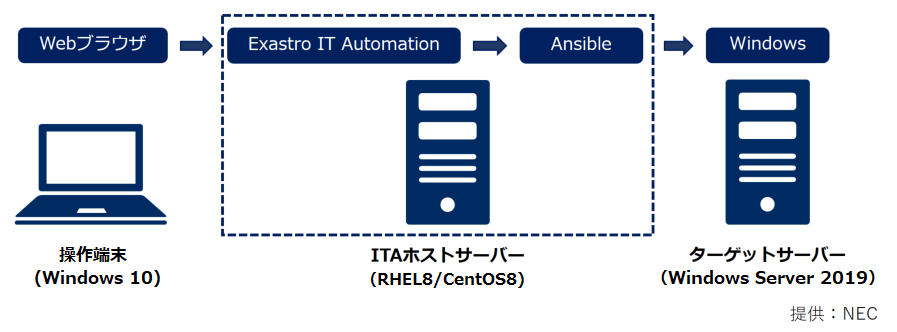
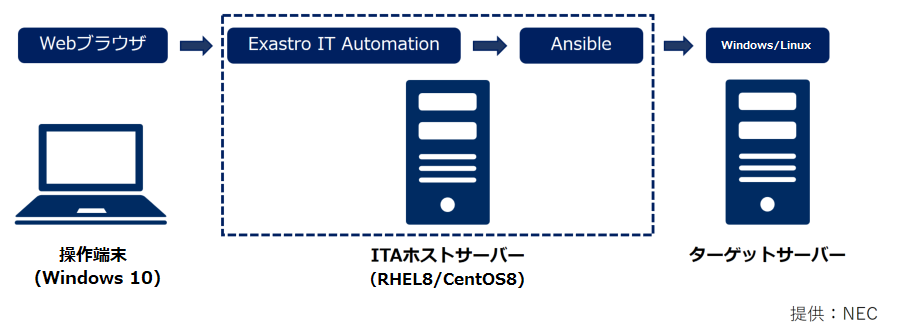
Publish Ansible Role Template for ITA1.9.1

Changed region(s): [[0.7179, 0.8133, 0.9989, 0.8735], [0.7804, 0.0904, 0.9052, 0.1506]]

diff --git a/ansible_role_templates/README.md b/ansible_role_templates/README.md
@@ -6,24 +6,24 @@
 Ansible Role TemplateはExastro IT AutomationにAnsible Role Packageの組込みやRole実行に必要なメニュー／ジョブ等の構築などを行った上でエクスポートしたイメージファイルです  
 公開パッケージ(kym)をダウンロードし、Exastro IT Automationへのインポートと初期設定を行うことでロールの実行を行えます  
 
+
 ## Ansible Role Template
 
-**現時点では限定的に機能を実装したTrial Versionのみの配布となります**  
 **制限事項については「How to use」欄の「制限事項」を参照ください**  
 
 | 対象製品 | Version    | ITA Version | パッケージ(kym)                                              | 機能概要                                                                                              | How to use                                                     |  
 | -------- | ---------- | ----------- | ------------------------------------------------------------ | ----------------------------------------------------------------------------------------------------- | -------------------------------------------------------------- |  
-| OS       | WS2019     | Ver. 1.9.0  | [OS-Windows2019](https://github.com/exastro-playbook-collection/OS-Windows2019/releases/download/v21.04/ansible-template-os-windows2019-ce-trial2-exastro-1.9.0.kym) | OSの環境構築、設定変更、およびOS設定値収集、<br>再利用可能なパラメータファイルの生成を行う | [Readme](https://github.com/exastro-playbook-collection/OS-Windows2019/blob/master/README.md)<br>[注意事項](attention/OS-Windows2019_1.9.0_Trial2.ja.md)<br>[制限事項](limitation/OS-Windows2019_1.9.0_Trial2.ja.md) |  
-| OS       | RHEL8      | Ver. 1.9.0  | [OS-RHEL8](https://github.com/exastro-playbook-collection/OS-RHEL8/releases/download/v21.04/ansible-template-os-rhel8-ce-trial2-exastro-1.9.0.kym)                   | OSの環境構築、設定変更、およびOS設定値収集、<br>再利用可能なパラメータファイルの生成を行う | [Readme](https://github.com/exastro-playbook-collection/OS-RHEL8/blob/master/README.md)<br>[注意事項](attention/OS-RHEL8_1.9.0_Trial2.ja.md)<br>[制限事項](limitation/OS-RHEL8_1.9.0_Trial2.ja.md) |  
+| OS       | RHEL8      | Ver. 1.9.1  | [OS-RHEL8](https://github.com/exastro-playbook-collection/OS-RHEL8/releases/download/v21.04/ansible-role-template-os-rhel8-ce-exastro-1.9.1.kym)                     | OSの環境構築、設定変更、およびOS設定値収集、<br>再利用可能なパラメータファイルの生成を行う | [Role Readme](https://github.com/exastro-playbook-collection/OS-RHEL8/blob/master/README.md)<br>[注意事項](attention/ansible-role-template-os-rhel8-ce-exastro-1.9.1.ja.md)<br>[制限事項](limitation/ansible-role-template-os-rhel8-ce-exastro-1.9.1.ja.md) |  
+
 
 ## Support
 
-対象ホストの諸元等については「Ansible Role Template」一覧の「How to use」／「Readme」を参照ください  
+Ansible Role 対象ホストの諸元等については「Ansible Role Template」一覧の「How to use」／「Role Readme」を参照ください  
 
 
 ## Usage
 
-ここではITAにWS2019の環境構築用Ansible Role Template Trial VersionをインポートしてRoleを実行する場合の例を示します  
+ここではITAにRHEL8の環境構築用Ansible Role TemplateをインポートしてRoleを実行する場合の例を示します  
 
 
 ### システム構成
@@ -34,11 +34,11 @@ Ansible Role TemplateはExastro IT AutomationにAnsible Role Packageの組込み
 
 ### ITAサーバーの環境構築を行う
 
-本手順はITAで設定収集を行う場合に一度だけ実行する必要があります  
+本手順はITAサーバで一度だけ実行する必要があります  
 以降の手順は特に明記の無い限りITAホストサーバ上で実行します  
 
 1. ITAホストサーバにITAのインストールを行います  
-   * インストール手順は[「Exastro IT Automation を導入しよう」](https://exastro-suite.github.io/it-automation-docs/install_ja.html)を参照ください  
+   * インストール手順については[「Exastro IT Automation を導入しよう」](https://exastro-suite.github.io/it-automation-docs/install_ja.html)を参照ください  
    * インストールするITAのバージョンは、「Ansible Role Template」一覧の「ITA Version」を参照ください  
 
 2. ITAホストサーバにsudo権限を付与したユーザでログインします  
@@ -97,15 +97,19 @@ Ansible Role TemplateはExastro IT AutomationにAnsible Role Packageの組込み
     ```
 
 
-### ITAホストサーバーの初期設定を行う
+### Ansible Role Templateを利用する
+
+以降の手順は特に明記の無い限り操作端末上で実行します  
+
+
+【ITAホストサーバーの初期設定を行う】  
 
 以降の手順は特に明記の無い限り操作端末上で実行します  
 
 1. 「Ansible Role Template」一覧から対象製品のパッケージ(kym)をダウンロードし、操作端末の適当なフォルダに格納します  
     - 「How to use」欄に「制限事項」「注意事項」のリンクがある場合は内容を確認し、必要に応じて対応を行ってください  
 
-2. ITAに"administrator"でログインし、パスワードを変更します  
-    - この後の手順で変更したパスワードとは異なるパスワードへの変更を求められるため、ここでは使用予定のパスワードとは別の適当な値に変更してください  
+2. ブラウザでITAホストサーバーに接続し、"administrator"（システム管理者）でログインします  
 
 3. 「メインメニュー」＞「エクスポート／インポート」＞「メニューインポート」メニューを開きます  
 「ファイルを選択」からダウンロードしたパッケージ(kym)を選択し、「アップロード」ボタンを押します  
@@ -113,66 +117,52 @@ Ansible Role TemplateはExastro IT AutomationにAnsible Role Packageの組込み
 
 4. 「メインメニュー」＞「エクスポート／インポート」＞「メニューエクスポート・インポート管理」メニューを開きます  
 「フィルタ」ボタンを押して画面更新し、実行中のインポート処理のステータスが「完了」になるのを待ちます  
-    - インポートによってパスワードは初期化され、初期パスワード"password"に戻ります  
-    - パスワード変更画面が表示された場合、旧パスワード"password"からパスワード変更します  
 
-5. ログアウトした後に"administrator"で再ログインします  
-    - インポート中にパスワード変更していない場合、パスワードは初期パスワード"password"になります  
-    - パスワード変更画面が表示された場合、旧パスワード"password"からパスワード変更します  
+5. 「メインメニュー」＞「基本コンソール」＞「機器一覧」メニューを開きます  
+「フィルタ」ボタンを押して表示される登録済ホスト情報をターゲットサーバーの設定にあわせて更新します  
+    - 登録済ホスト情報のホスト名、IPアドレス、ログインユーザID、パスワード等にはサンプル値が入力されています  
 
-6. インポート中にパスワード変更していない場合、画面右上の「パスワード変更」ボタンを押してパスワードを変更します  
-
-7. 「メインメニュー」＞「基本コンソール」＞「機器一覧」メニューを開きます  
-「フィルタ」ボタンを押して表示される登録済ホストを更新するか「登録」から新規ホストを登録します  
-    - 登録済データのホスト名、IPアドレス、ログインユーザID、パスワード等にはサンプル値が入力されています  
-
-8. 「メインメニュー」＞「基本コンソール」＞「オペレーション一覧」メニューを開きます  
-「フィルタ」ボタンを押して表示される登録済オペレーションを更新するか「登録」から新規オペレーションを登録します  
-    - 実施予定日時はここでは任意の日時を指定して問題ありません  
+6. 「メインメニュー」＞「基本コンソール」＞「オペレーション一覧」メニューを開きます  
+「フィルタ」ボタンを押して表示される登録済オペレーションを必要に応じて更新します  
+    - 実施予定日時にはここでは任意の日時を指定して問題ありません  
 
 
-### ターゲットサーバーの設定値収集を行う
-
-以降の手順は特に明記の無い限り操作端末上で実行します  
-「設定値収集」機能を持たないパッケージをご利用の場合は本章はスキップします  
+【ターゲットサーバーの設定値収集を行う】  
 
 1. 「メインメニュー」＞「Ansible共通」＞「収集インターフェース情報」メニューを開きます  
-「フィルタ」ボタンを押して表示される登録済のホスト情報を更新し、ITAホストサーバに接続するための情報を設定します  
-    - 通常はRESTパスワードに初期設定で変更したパスワードを入力する以外の操作は必要ありません  
+「フィルタ」ボタンを押して表示される登録済のホスト情報をITAホストサーバ（自身）に接続可能となるよう更新します  
 
-2. 「メインメニュー」＞「入力用」＞「＜利用するロール名＞_収集」メニューを開きます  
-「フィルタ」ボタンを押して表示される登録済パラメータを更新するか「登録」から新規パラメータを登録します  
-    - ホスト、オペレーションには、本手順で更新、新規登録したものを選択します  
+2. 「メインメニュー」＞「入力用」＞「収集_RHEL8_＜利用するロール名＞」メニューを開きます
+「フィルタ」ボタンを押し、必要に応じてパラメータを更新します  
 
-3. 「メインメニュー」＞「Conductor」＞「Conductor作業実行」メニューを開きます  
-実行するConductorと、本手順で更新、新規登録したオペレーションを選択します  
+3. 「メインメニュー」＞「Symphony」＞「Symphony作業実行」メニューを開きます  
+「RHEL8_収集」Symphonyと前述の手順で更新したオペレーションを選択します  
 
-4. 「Conductor実行」に表示されているロールの内、利用しないロールを選択して「Skip」をチェックします  
-    - Conductorに含まれる全てのロールを実行する場合、本手順は不要です  
+4. 「Symphony」に表示されているロールの内、利用しないロールは「Skip」をチェックします  
+    - Symphonyに含まれる全てのロールを実行する場合、本手順は不要です  
 
-5. 画面下部の「実行」ボタンを押してConductorを実行します  
+5. 画面下部の「実行」ボタンを押してSymphonyを実行します  
 全てのロールが「SKIP」もしくは「Done」になれば実行は完了です  
     - 作業状況、結果の詳細については、対象のロールを選択して「Operation Status」の「作業状態確認」から確認できます  
 
-6. 「メインメニュー」＞「入力用」＞「＜利用するロール名＞_構築」メニューを開きます  
+6. 「メインメニュー」＞「入力用」＞「構築_RHEL8_＜利用するロール名＞」メニューを開きます  
 「フィルタ」ボタンを押して表示されるパラメータから収集内容を確認します  
 
 
-### ターゲットサーバーの環境構築、設定変更を行う
+【ターゲットサーバーの環境構築、設定変更を行う】  
 
 以降の手順は特に明記の無い限り操作端末上で実行します  
 
-1. 「メインメニュー」＞「入力用」＞「＜利用するロール名＞_構築」メニューを開きます  
-「フィルタ」ボタンを押して表示される登録済パラメータを更新するか「登録」から新規パラメータを登録します  
-    - ホスト、オペレーションには、本手順で更新、新規登録したものを選択します  
+1. 「メインメニュー」＞「入力用」＞「構築_RHEL8_＜利用するロール名＞」メニューを開きます  
+必要に応じて「フィルタ」ボタンを押して表示されるパラメータを更新します  
 
-2. 「メインメニュー」＞「Conductor」＞「Conductor作業実行」メニューを開きます  
-実行するConductorと、本手順で更新、新規登録したオペレーションを選択します  
+2. 「メインメニュー」＞「Symphony」＞「Symphony作業実行」メニューを開きます  
+「RHEL8_構築」Symphonyと前述の手順で更新したオペレーションを選択します  
 
-3. 「Conductor実行」に表示されているロールの内、利用しないロールを選択して「Skip」をチェックします  
-    - Conductorに含まれる全てのロールを実行する場合、本手順は不要です  
+3. 「Symphony実行」に表示されているロールの内、利用しないロールは「Skip」をチェックします  
+    - Symphonyに含まれる全てのロールを実行する場合、本手順は不要です  
 
-4. 画面下部の「実行」ボタンを押してConductorを実行します  
+4. 画面下部の「実行」ボタンを押してSymphonyを実行します  
 全てのロールが「SKIP」もしくは「Done」になれば実行は完了です  
     - 作業状況、結果の詳細については、対象のロールを選択して「Operation Status」の「作業状態確認」から確認できます  
 

diff --git a/ansible_role_templates/attention/ansible-role-template-os-rhel8-ce-exastro-1.9.1.ja.md b/ansible_role_templates/attention/ansible-role-template-os-rhel8-ce-exastro-1.9.1.ja.md
@@ -1,0 +1,12 @@
+# 注意事項
+
+* 「入力用」メニューグループの各メニューの入力項目についてマウスオーバーすることで入力できるパラメータの概要が表示される項目があります  
+各項目の指定方法の詳細についてはRoleのReadmeなどを参照ください  
+
+* 配列として複数設定可能な変数の指定可能最大数を拡張する場合、以下手順で行ってください  
+※ 拡張時にはITAの諸元(各項目の設定最大数など)をご確認の上実施してください。
+    1. 「メニュー作成」＞「メニュー定義・管理」から対応するメニューのRepeat数を必要な値に変更します  
+    2. 「Ansible-LegacyRole」＞「変数ネスト管理」で対象変数の「最大繰り返し数」を必要な値に変更します  
+    3. 「Ansible-LegacyRole」＞「代入値自動登録設定」でメニューと変数の紐付けを行います  
+    4. （設定値収集機能を持つパッケージの場合のみ）「Ansible共通」＞「収集項目値管理」で収集データとメニューの紐付けを行います  
+

diff --git a/ansible_role_templates/limitation/ansible-role-template-os-rhel8-ce-exastro-1.9.1.ja.md b/ansible_role_templates/limitation/ansible-role-template-os-rhel8-ce-exastro-1.9.1.ja.md
@@ -1,0 +1,16 @@
+# 制限事項
+
+本パッケージは以下の制限事項があります  
+
+* OS-RHEL8 Roleに実装された機能の内、以下機能の「設定値収集」「環境構築、設定値変更」には現時点では対応しておりません  
+  * RH_group  
+  * RH_rpm  
+  * RH_systemctl  
+  * RH_user  
+
+* 「RHEL8_構築」Symphonyを実行した際にバリデーションエラーが発生し、以下のようなメッセージが表示されることがあります  
+  ```
+  Movementに作業対象ホストが登録されていません。（MovementID:xx）'''  
+  ```
+  これは、表示されたMovementIDに紐づくMovementのパラメータが未設定の場合に出力されるエラーです  
+  Symphony実行時に「Skip」をチェックして当該Movementの実行をスキップするか、「構築_RHEL8_＜ロール名＞」メニューからパラメータを登録した後Symphonyを実行してください  

diff --git a/README.ja.md b/README.ja.md
@@ -17,11 +17,9 @@
 
 ### <a href="ansible_role_templates/README.md">Ansible Role Templates</a>
 
-> **<h3>現時点では限定的に機能を実装したTrial Versionのみの公開となります</h3>**  
-> 
 > 上記サイトではAnsible Role Templateを公開しています  
 > Ansible Role TemplateはExastro IT AutomationにAnsible Role Packageの組込みやRole実行に必要なメニュー／ジョブ等の構築などを行った上でエクスポートしたイメージファイルです  
-> 公開パッケージ(kym)をダウンロードし、Exastro IT Automationへインポートしてパラメータ設定などを行うことでロールの実行を行えます  
+> 公開パッケージ(kym)をダウンロードし、Exastro IT Automationへインポートして環境に合わせた設定を行うことでロールを実行できます  
 
 ### <a href="ansible_role_packages/README.md">Ansible Role Packages</a>
 

diff --git a/README.md b/README.md
@@ -12,8 +12,6 @@ This service distributes Ansible Role for changing OS / MW settings and collecti
 
 ### <a href="ansible_role_templates/README.md">Ansible Role Templates</a>
 
-> **<h3>Currently, only the Trial Version with limited functions will be distributed</h3>**  
-> 
 > The above site distributes Ansible Role Template.  
 > Ansible Role Template is exported image file after embedding Ansible Role Package in Exastro IT Automation and building menus / jobs required for Role execution.  
 > You can execute roles by downloading the public package (kym), importing it into Exastro IT Automation, setting parameters, etc.
